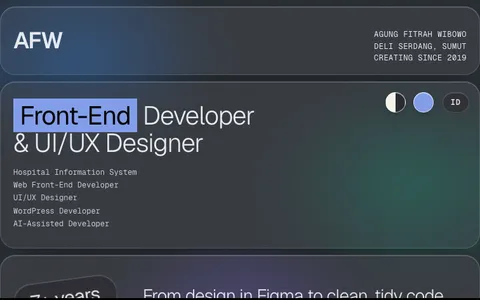
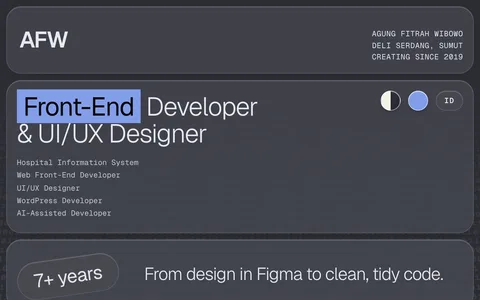
Perbarui thumbnail pemilih layout (terang/gelap) sesuai tampilan terbaru, versi aset v67

Changed region(s): [[0.0, 0.0, 1.0, 1.0], [0.75, 0.09, 1.0, 0.21], [0.9688, 0.0, 1.0, 0.06]]

diff --git a/themes/registry.js b/themes/registry.js
@@ -7,12 +7,12 @@
 //   loader true bila tampilan punya layar loader (kelas `loading` dipasang di kunjungan pertama per tab);
 //          tampilan wajib memanggil `window.__rv = true` setelah siap, kalau tidak, konten ditampilkan paksa setelah 2,5 dtk
 window.THEMES = [
-  { id: 'neo', name: 'Neo-brutalist', v: 66, loader: true, thumb: 'assets/themes/neo.webp', thumbDark: 'assets/themes/neo-dark.webp',
+  { id: 'neo', name: 'Neo-brutalist', v: 67, loader: true, thumb: 'assets/themes/neo.webp', thumbDark: 'assets/themes/neo-dark.webp',
     fonts: 'https://fonts.googleapis.com/css2?family=Space+Grotesk:wght@300;400;500;600&family=Geist+Mono:wght@400;500;600&family=Red+Hat+Mono:wght@600&display=swap' },
   // varian neo: tiap panel jadi kartu kaca (CSS saja, di themes/neo/style.css); v harus sama dengan neo karena berkasnya sama
-  { id: 'glass', name: 'Glass', dir: 'neo', v: 66, loader: true, thumb: 'assets/themes/glass.webp', thumbDark: 'assets/themes/glass-dark.webp',
+  { id: 'glass', name: 'Glass', dir: 'neo', v: 67, loader: true, thumb: 'assets/themes/glass.webp', thumbDark: 'assets/themes/glass-dark.webp',
     fonts: 'https://fonts.googleapis.com/css2?family=Geist:wght@300;400;500;600;700&family=Geist+Mono:wght@400;500;600&family=Red+Hat+Mono:wght@600&display=swap' },
   // varian neo kedua: tata letak kartu sama dengan Glass, gaya datar (CSS saja, di themes/neo/style.css)
-  { id: 'flat', name: 'Flat', dir: 'neo', v: 66, loader: true, thumb: 'assets/themes/flat.webp', thumbDark: 'assets/themes/flat-dark.webp',
+  { id: 'flat', name: 'Flat', dir: 'neo', v: 67, loader: true, thumb: 'assets/themes/flat.webp', thumbDark: 'assets/themes/flat-dark.webp',
     fonts: 'https://fonts.googleapis.com/css2?family=Manrope:wght@400;500;600;700&family=Red+Hat+Mono:wght@600&display=swap' }
 ];

diff --git a/index.html b/index.html
@@ -28,7 +28,7 @@ try { if (localStorage.getItem('afw-theme') === 'dark') document.documentElement
 </script>
 <script src="js/data.js?v=29" defer></script>
 <script src="js/icons.js?v=2" defer></script>
-<script src="themes/registry.js?v=70" defer></script>
+<script src="themes/registry.js?v=71" defer></script>
 <script src="js/core.js?v=7" defer></script>
 </head>
 <body>
